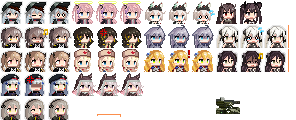
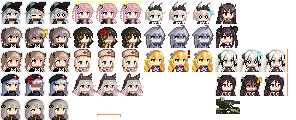
아이템변경 및 스프라이트, 대화다듬기
분기점부분 대화가 제대로 안나오는 버그가 있음.
무기 M9를 SRS로 변경하고 우로보로스 도트를 한칸 내림

Changed region(s): [[0.6993, 0.0, 1.0, 0.8]]

diff --git a/core/src/main/java/com/gfpixel/gfpixeldungeon/DialogInfo.java b/core/src/main/java/com/gfpixel/gfpixeldungeon/DialogInfo.java
@@ -92,10 +92,10 @@ public  class DialogInfo
 
     private static final Point EXECUTIONER  = new Point(SANGVIS, 0);
     // TODO emotion.png에서 우로보로스의 스프라이트 위치를 1열 2번째에서 다른 위치로 변경
-    private static final Point UROBOROS     = new Point(SANGVIS, 3);
+    private static final Point UROBOROS     = new Point(SANGVIS, 1);
 
-    private static final Point DESTROYER    = new Point(SANGVIS, 1);
-    private static final Point DREAMER      = new Point(SANGVIS, 2);
+    private static final Point DESTROYER    = new Point(SANGVIS, 2);
+    private static final Point DREAMER      = new Point(SANGVIS, 3);
 
     private static final Point TYPHOON      = new Point(SANGVIS, 4);
 
@@ -156,7 +156,7 @@ public  class DialogInfo
         STORIES.put( ID_SEWER_BOSS,
                 new DialogInfo (
                         "excutioner",
-                        new Point[]{DESTROYER},
+                        new Point[]{EXECUTIONER},
                         new int[]{        0} )
         );
         STORIES.put( ID_PRISON,
@@ -166,25 +166,31 @@ public  class DialogInfo
                         new int[]{   0,     2,    2,   1,     2,    1,     1}
                 )
         );
+        STORIES.put( ID_PRISON_BOSS,
+                new DialogInfo (
+                        "uroboros",
+                        new Point[]{UROBOROS},
+                        new int[]{        1} )
+        );
         STORIES.put( ID_RABBIT,
                 new DialogInfo (
                         "rabbit",
-                        new Point[]{UMP9, G11, UMP45},
-                        new int[]  {   2,   1,     1}
+                        new Point[]{UMP9, UMP45, UMP9, G11, UMP9, HK416, UMP9, UMP45, UMP9, UMP45},
+                        new int[]  {   0,   2,    1,   1,   1,   2,   1,   2,   1,   1}
                 )
         );
         STORIES.put( ID_RABBIT_BOSS,
                 new DialogInfo (
                         "elphelt",
-                        new Point[]{ELPHELT, ELPHELT},
+                        new Point[]{NOEL, ELPHELT},
                         new int[]  {      1,       1}
                 )
         );
         STORIES.put( ID_RABBIT_BOSS + INPROGRESS,
                 new DialogInfo (
                         "elphelt.inprogress",
-                        new Point[]{ELPHELT},
-                        new int[]  {      0}
+                        new Point[]{ELPHELT, HK416, NOEL, ELPHELT},
+                        new int[]  {      2,    2,  0,  0}
                 )
         );
         STORIES.put( ID_RABBIT_BOSS + COMPLETE,
@@ -273,9 +279,9 @@ public  class DialogInfo
         );
         STORIES.put( ID_NOEL_QUEST,
                 new DialogInfo (
-                        "m16a1quest",
-                        new Point[]{UMP45, M16A1, M16A1, HK416, UMP45},
-                        new int[]{    1,     1,     0,     1,     0}
+                        "noelquest",
+                        new Point[]{NOEL, UMP9, NOEL, UMP9, NOEL, UMP45, NOEL},
+                        new int[]{    0,     1,     0,     1,     2,     0}
                 )
         );
         STORIES.put( ID_PPSH47_QUEST,

diff --git a/core/src/main/java/com/gfpixel/gfpixeldungeon/sprites/ItemSpriteSheet.java b/core/src/main/java/com/gfpixel/gfpixeldungeon/sprites/ItemSpriteSheet.java
@@ -23,6 +23,7 @@ package com.gfpixel.gfpixeldungeon.sprites;
 
 import com.gfpixel.gfpixeldungeon.Assets;
 import com.gfpixel.gfpixeldungeon.items.weapon.melee.AK47;
+import com.gfpixel.gfpixeldungeon.items.weapon.melee.M9;
 import com.watabou.noosa.TextureFilm;
 
 public class ItemSpriteSheet {
@@ -137,7 +138,7 @@ public class ItemSpriteSheet {
 	private static final int WEP_TIER1      =                               xy(1, 7);   //8 slots
 	public static final int UMP45         	= WEP_TIER1+0;
 	public static final int DP             	= WEP_TIER1+1;
-	public static final int KNUCKLEDUSTER   = WEP_TIER1+2;
+	public static final int M9   = WEP_TIER1+2;
 	public static final int UMP40          	= WEP_TIER1+3;
 	public static final int DAGGER          = WEP_TIER1+4;
 	public static final int G11             = WEP_TIER1+5;
@@ -146,7 +147,7 @@ public class ItemSpriteSheet {
 	static{
 		assignItemRect(UMP45, 15, 16);
 		assignItemRect(DP,     15, 16);
-		assignItemRect(KNUCKLEDUSTER,   15, 10);
+		assignItemRect(M9,   16, 16);
 		assignItemRect(UMP40, 			   16, 16);
 		assignItemRect(DAGGER,          12, 13);
 		assignItemRect(G11,     15, 16);

diff --git a/core/src/main/java/com/gfpixel/gfpixeldungeon/actors/hero/HeroClass.java b/core/src/main/java/com/gfpixel/gfpixeldungeon/actors/hero/HeroClass.java
@@ -42,6 +42,7 @@ import com.gfpixel.gfpixeldungeon.items.food.SmallRation;
 import com.gfpixel.gfpixeldungeon.items.potions.PotionOfHealing;
 import com.gfpixel.gfpixeldungeon.items.potions.PotionOfInvisibility;
 import com.gfpixel.gfpixeldungeon.items.potions.PotionOfMindVision;
+import com.gfpixel.gfpixeldungeon.items.scrolls.ScrollOfMagicMapping;
 import com.gfpixel.gfpixeldungeon.items.scrolls.ScrollOfRecharging;
 import com.gfpixel.gfpixeldungeon.items.scrolls.ScrollOfUpgrade;
 import com.gfpixel.gfpixeldungeon.items.wands.M79;
@@ -189,7 +190,7 @@ public enum HeroClass {
 
 		new ScrollHolder().collect();
 		Dungeon.LimitedDrops.SCROLL_HOLDER.drop();
-		new ScrollOfUpgrade().identify();
+		new ScrollOfMagicMapping().identify();
 	}
 
 	private static void initHuntress( Hero hero ) {

diff --git a/core/src/main/java/com/gfpixel/gfpixeldungeon/items/Generator.java b/core/src/main/java/com/gfpixel/gfpixeldungeon/items/Generator.java
@@ -293,7 +293,7 @@ public class Generator {
 					SR3.class,
                     Cannon.class
 			};
-			WEP_T1.probs = new float[]{ 1, 1, 1, 1, 1, 1, 0 };
+			WEP_T1.probs = new float[]{ 1, 0, 1, 1, 1, 1, 0 };
 			
 			WEP_T2.classes = new Class<?>[]{
 					M16.class,

diff --git a/core/src/main/java/com/gfpixel/gfpixeldungeon/items/weapon/melee/M9.java b/core/src/main/java/com/gfpixel/gfpixeldungeon/items/weapon/melee/M9.java
@@ -26,7 +26,7 @@ import com.gfpixel.gfpixeldungeon.sprites.ItemSpriteSheet;
 public class M9 extends MeleeWeapon {
 
 	{
-		image = ItemSpriteSheet.KNUCKLEDUSTER;
+		image = ItemSpriteSheet.M9;
 
 		tier = 1;
 	}
